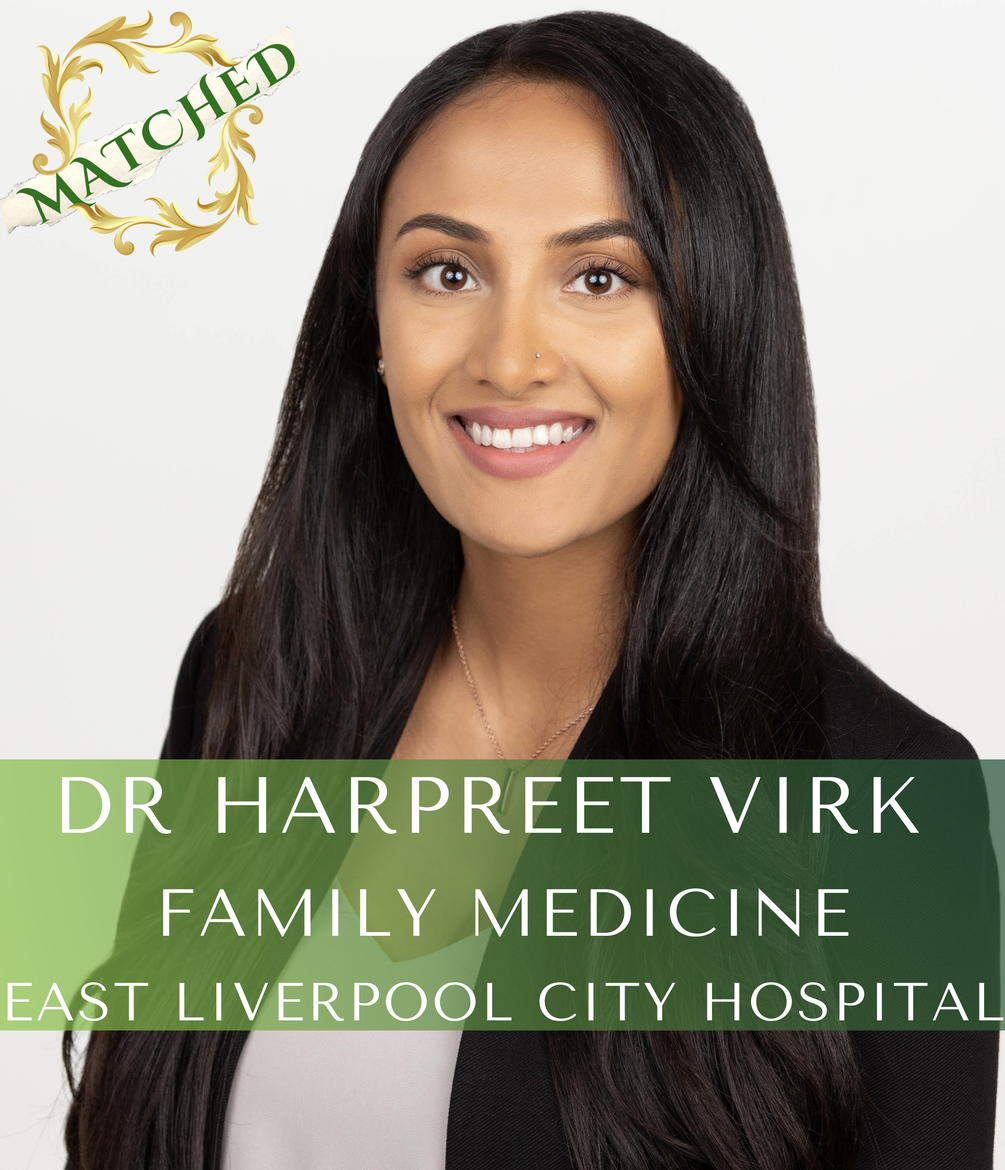
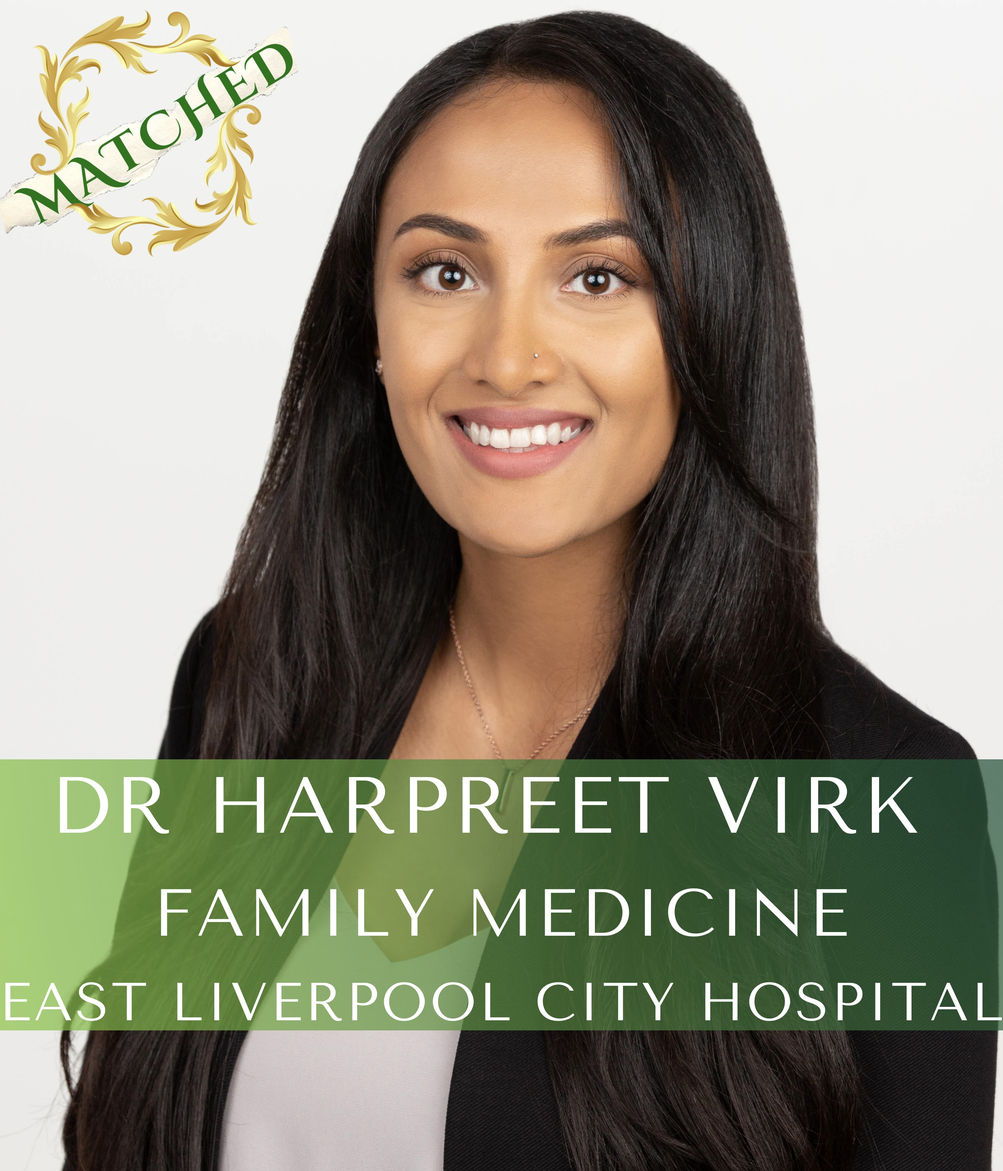
added the new images without white borders, added some media queries and padding to page titles

diff --git a/app/client/src/slider/slider.css b/app/client/src/slider/slider.css
@@ -27,8 +27,7 @@
   }
 
   .text3 {
-    margin-bottom: 15%;
-    margin-top: -49%;
+    margin-top: -43%;
     margin-left: -42%;
     color: white;
     text-shadow: 2px 2px black;
@@ -171,6 +170,13 @@
   
 }
 
+@media screen and (max-width: 1378px) {
+  .usce {
+    margin-left: -10%;
+  }
+  
+}
+
 @media screen and (max-width: 1298px) {
   .slider {
     height: 550px;
@@ -221,6 +227,12 @@
   .slider {
     height: 425px;
   }
+  .text2 {
+    font-size: 40px;
+  }
+  .text3 {
+    margin-left: -35%;
+  }
 }
 
 @media screen and (max-width: 919px) {
@@ -228,10 +240,7 @@
     height: 400px;
   }
   .content > div {
-    margin-top: -10%;
-  }
-  .button {
-    width: 10%;
+    margin-top: -8%;
   }
   .click2 {
     font-size: 18px;
@@ -242,5 +251,142 @@
   .slider {
     height: 375px;
   }
+  .text2 {
+    font-size: 30px;
+  }
+  .text3 {
+    font-size: 40px;
+  }
 }
 
+@media screen and (max-width: 815px) {
+  .slider {
+    height: 350px;
+  }
+  .text3 {
+    font-size: 35px;
+  }
+}
+
+@media screen and (max-width: 757px) {
+  .slider {
+    height: 325px;
+  }
+}
+
+@media screen and (max-width: 730px) {
+  .text3 {
+    font-size: 30px;
+  }
+  
+}
+
+@media screen and (max-width: 702px) {
+  .slider {
+    height: 300px;
+  }
+  .text2 {
+    font-size: 25px;
+  }
+}
+
+@media screen and (max-width: 650px) {
+  .slider {
+    height: 275px;
+  }
+  .prev{
+    left: 5px
+  }
+  .next {
+    right: 5px;
+  }
+  .dot {
+    width: 15px;
+    height: 15px;
+  }
+}
+
+@media screen and (max-width: 613px) {
+  .text2 {
+    font-size: 20px;
+  }
+  .text3 {
+    font-size: 25px;
+  }
+}
+
+@media screen and (max-width: 594px) {
+  .slider {
+    height: 250px;
+  }
+  .button {
+    padding: 10px;
+  }
+}
+
+@media screen and (max-width: 541px) {
+  .slider {
+    height: 225px;
+  }
+  .button {
+    padding: 5px;
+  }
+  .text2 {
+    font-size: 17px;
+  }
+  .text3 {
+    font-size: 20px;
+  }
+}
+
+
+@media screen and (max-width: 487px) {
+  .slider {
+    height: 200px;
+  }
+  .text3 {
+    font-size: 17px;
+  }
+}
+
+@media screen and (max-width: 464px) {
+  .space {
+    padding-top: 250px;
+  }
+  
+}
+
+@media screen and (max-width: 433px) {
+  .slider {
+    height: 175px;
+  }
+  .text2 {
+    font-size: 15px;
+  }
+  .button {
+    padding: 0px;
+  }
+  .text3 {
+    font-size: 15px;
+    margin-left: -30%;
+  }
+}
+
+@media screen and (max-width: 379px) {
+  .slider {
+    height: 160px;
+  }
+  .text2 {
+    font-size: 13px;
+  }
+  .text3 {
+    margin-left: -25%;
+  }
+}
+
+@media screen and (max-width: 398px) {
+  .space {
+   padding-top: 270px;
+  }
+   
+}

diff --git a/app/client/src/css/index.css b/app/client/src/css/index.css
@@ -100,6 +100,7 @@ margin: auto;
 .regbutton {
   display: block;
   width: 7%;
+  margin-bottom: 1.5%;
 }
 
 .regbutton:hover {
@@ -205,7 +206,7 @@ h4 {
 }
 
 .login {
-  padding-top: 6%;
+  padding-top: 100px;
 }
 
 .emailbox {
@@ -233,7 +234,7 @@ h4 {
   color: #008037;
   font-size: 38px;
   font-family: 'Open Sans', sans-serif;
-  padding-top: 9%;
+  padding-top: 170px;
 
 }
 
@@ -268,6 +269,7 @@ h4 {
   flex-wrap: wrap;
   justify-content: center;
   margin-left: 2%;
+  margin-bottom: 3%;
 }
 
 .items {
@@ -280,16 +282,16 @@ h4 {
 }
 
 .viewlog {
-  padding-top: 13%;
+  padding-top: 320px;
 }
 
 .viewsign {
-  margin-top: 1%;
-  margin-bottom: 10%;
+  margin-top: 20px;
+  margin-bottom: 200px;
 }
 
 .rotatetitle {
-  padding-top: 15%;
+  padding-top: 200px;
 }
 
 .status {
@@ -365,6 +367,15 @@ h4 {
   background-color: #185332;
 }
 
+
+/* MEDIA QUERIES */
+
+@media screen and (max-width: 1400px) {
+  .items {
+    flex-direction: row;
+  }
+}
+
 @media screen and (max-width: 1000px) {
   .about {
     width: auto;
@@ -383,34 +394,9 @@ h4 {
   }
 }
 
-@media screen and (max-width: 760px) {
-  .about {
-    font-size: 13px;
-  }
-}
-
 @media screen and (max-width: 1000px) {
   .p-3 {
     font-size: 15px;
-  }
-}
-
-@media screen and (max-width: 760px) {
-  .p-3 {
-    font-size: 13px;
-  }
-}
-
-/* @media screen and (max-width: 1400px) {
-  .usce {
-    margin-right: 600px;
-  }
-  
-} */
-
-@media screen and (max-width: 770px) {
-  .usce {
-    margin-right: auto;
   }
 }
 
@@ -428,9 +414,20 @@ h4 {
   }
 } 
 
- @media screen and (max-width: 1400px) {
-  .items {
-    flex-direction: row;
+@media screen and (max-width: 770px) {
+  .usce {
+    margin-right: auto;
   }
 }
 
+@media screen and (max-width: 760px) {
+  .about {
+    font-size: 13px;
+  }
+}
+
+@media screen and (max-width: 760px) {
+  .p-3 {
+    font-size: 13px;
+  }
+}

diff --git a/app/client/src/slider/data.js b/app/client/src/slider/data.js
@@ -7,7 +7,7 @@ import '../components/pages/style.css';
 
 const Slider = [
   {
-    image: <div><video  className='video2' controls muted autoPlay loop
+    image: <div><video  className='video2' playsInline muted autoPlay loop
     >
        <source src={Doctors}/>
        </video></div>,
@@ -16,8 +16,7 @@ const Slider = [
   },
   {
     image: <img className='image3' alt='doctor' src={Doc}></img>,
-    desc: <div className='slide2text'><Link to='/rotations#steps_list'><p className='text3'>Steps in Application</p></Link>
-    <p className='text4'>Start Application Now</p></div>
+    desc: <div className='slide2text'><Link to='/rotations#steps_list'><p className='text3'>Steps in Application</p></Link></div>
   },
 
 ];

diff --git a/app/client/src/components/pages/style.css b/app/client/src/components/pages/style.css
@@ -58,7 +58,7 @@ h6 {
     margin: auto;
     width: 30%;
     color: #008037;
-    padding-top: 15%;
+    padding-top: 190px;
 }
 
 .hoftitle > h1 {
@@ -1325,6 +1325,13 @@ h6 {
     }
 }
 
+@media screen and (max-width: 1431px) {
+    .usce {
+        margin-left: 20%;
+    }
+    
+}
+
 
   @media screen and (max-width: 1400px) {
     .grid-container {
@@ -1558,9 +1565,6 @@ h6 {
     }
     .evalsection {
         width: auto;
-    }
-    .usce {
-        margin-left: 20%;
     }
     .hrblock {
         width: 80%;

diff --git a/app/client/src/components/pages/register.js b/app/client/src/components/pages/register.js
@@ -1,6 +1,7 @@
 import React, { useEffect, useState } from 'react';
 import Axios from 'axios';
 import Header from '../header/header'
+import Footer from '../footer/footer';
 import Form from 'react-bootstrap/Form';
 import Button from 'react-bootstrap/Button';
 import Dropdown from 'react-bootstrap/Dropdown';
@@ -308,6 +309,8 @@ export default function Register() {
       </div>
       
         </div>
+        
+        <Footer></Footer>
 
     </div>
 
